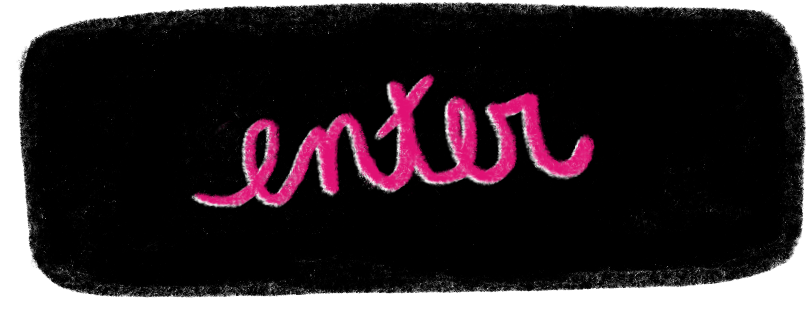
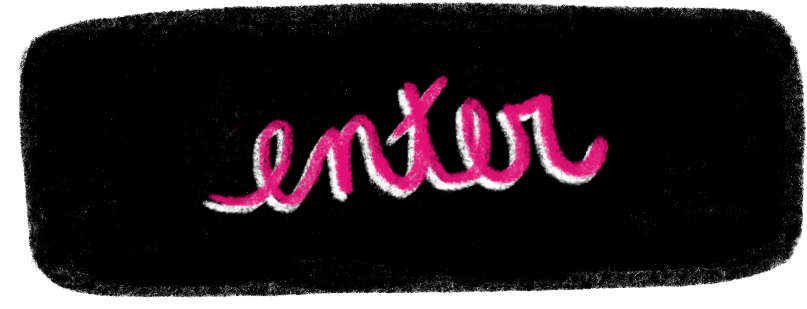
button hover logic, also clears up some sandbox code

Changed region(s): [[0.2169, 0.233, 0.7745, 0.699]]

diff --git a/scripts/functions.js b/scripts/functions.js
@@ -1,20 +1,32 @@
-// javascript for hotel california
+//functions used across site
+$(document).ready(function(){
 
+  //figures out what time it is for the comic pages
+  let time = parseInt(sessionStorage.getItem('time'));
+  console.log(time);
+  $('body').css("backgroundImage", 'url(assets/hotel'+time+'.jpg');
+
+  $('.button  img').hover(
+    function(){ this.src = 'assets/'+this.id+'x.png'; },
+    function(){ this.src = 'assets/'+this.id+'.png' }
+  )
+
+  $('.available').hover(
+    function(){
+      console.log($(this).find(':nth-child(1)'));
+      $(':nth-child(1)', this).css('backgroundColor', '#34A582');
+    },
+    function(){
+      $(':nth-child(1)', this).css('backgroundColor', '#DF287F')
+    }
+  )
+
+})
+
+//sets tile to visited when it's clicked
 function tileState(x) {
   sessionStorage.setItem(x, "visited");
 }
-
-
-
-
-
-
-
-
-
-
-
-
 
 
 
@@ -38,22 +50,22 @@ function tileState(x) {
   // display appropriate background image
 // reset sessions storage when user clicks final "home" link
 
-//STORY PROGRESSION
-function bgIncrement(){
-
-  if (sessionStorage.getItem("bgState")) {
-    let currentBg = parseInt((sessionStorage.getItem("bgState")), 10);
-    currentBg += 1;
-    sessionStorage.setItem("bgState", currentBg);
-    console.log(sessionStorage.getItem("bgState"));
-  } else {
-    let currentBg =  1;
-    sessionStorage.setItem("bgState", currentBg);
-    console.log(sessionStorage.getItem("bgState"));
-  }
-  // sessionStorage.setItem("bgState", currentBg+1);
-  // console.console.log(sessionStorage.getItem("bgState"));
-}
+// //STORY PROGRESSION
+// function bgIncrement(){
+//
+//   if (sessionStorage.getItem("bgState")) {
+//     let currentBg = parseInt((sessionStorage.getItem("bgState")), 10);
+//     currentBg += 1;
+//     sessionStorage.setItem("bgState", currentBg);
+//     console.log(sessionStorage.getItem("bgState"));
+//   } else {
+//     let currentBg =  1;
+//     sessionStorage.setItem("bgState", currentBg);
+//     console.log(sessionStorage.getItem("bgState"));
+//   }
+//   // sessionStorage.setItem("bgState", currentBg+1);
+//   // console.console.log(sessionStorage.getItem("bgState"));
+// }
 
 
 //TEMPLATED BLINKING
@@ -79,6 +91,7 @@ function doABlink(blinker) {
   }, 900);
 }
 
+//blinking stuff
 function lightIt(blinker, lit) {
   blinker.src = lit;
 }
@@ -86,6 +99,7 @@ function lightIt(blinker, lit) {
 function darkIt(blinker, unlit) {
   blinker.src = unlit;
 }
+
 
 function peterOut(peter) {
   let lit = 'assets/'+ peter.id+'.png';

diff --git a/scripts/index.js b/scripts/index.js
@@ -1,33 +1,51 @@
 // script for Hotel California landing page
 
 $(document).ready(function(){
-
+  // STORAGE
   sessionStorage.setItem("locat", "available");
   sessionStorage.setItem("pool", "unavailable");
   sessionStorage.setItem("bar", "unavailable");
   sessionStorage.setItem("ballroom", "unavailable");
   sessionStorage.setItem("rooms", "unavailable");
-  sessionStorage.setItem("time", "0");
+  sessionStorage.setItem("time", "1");
+
+  //LOOKING SICK
+  //soft flicker on
 
 
-  console.log(sessionStorage.getItem('locat'));
+  //button blink -- actually not going to do this, it would look cool but it not part of MVP
+  //https://stackoverflow.com/questions/18433429/setinterval-change-image
+  //this is not the most elegant solution, but it's the only place I'm using it so whatever
+  /*var i = 0;
+  var pics = ['assets/enter.png', 'assets/enterx.png'];
+  var el = document.getElementById('enter');  // el doesn't change
+  function toggle() {
+    el.src = pics[i];           // set the image
+    i = (i + 1) % pics.length;  // update the counter
+  }*/
+  //setInterval(toggle, 1000);
 
 
 
 
-  // copy that variable to local storage
-  setTimeout(function() {
-    doABlink(document.getElementById('index1'));
-    // console.log('yea i am a blinker')
-  }, 2700)
 
-  setTimeout(function() {
-    doABlink(document.getElementById('index2'));
-    // console.log('yea i am a blinker')
-  }, 2300)
 
-  //pulse(document.getElementById('enter'));
+
+
+
+
+
+
+
+  // setTimeout(function() {
+  //   doABlink(document.getElementById('index1'));
+  //   // console.log('yea i am a blinker')
+  // }, 2700)
+  //
+  // setTimeout(function() {
+  //   doABlink(document.getElementById('index2'));
+  //   // console.log('yea i am a blinker')
+  // }, 2300)
+
 
 })
-
-// functions

diff --git a/end.html b/end.html
@@ -6,7 +6,7 @@
     <link rel="stylesheet" href="styles.css">
     <title>Hotel California</title>
   </head>
-  <body id="theBod" class="body5">
+  <body id="theBod">
     <div class="flexy page">
       <div class="neonSign">
         <img src="assets/index1.png" alt="hotel" id='index1' onmouseover="peterOut(this)">
@@ -20,8 +20,8 @@
         <p class="small">"Hotel California" was written and illustrated by Joyce Rice, with apologies to the Eagles.</p>
         <p class="small">To support more digital comics, consider <a href="http://ko-fi.com/joycer" target="_blank">kicking ya girl a cup o' joe</a>.</p>
       </div>
-      <a href="index.html" class="button pink">
-        <img src="assets/readagain.png" alt="read again">
+      <a href="index.html" class="button">
+        <img src="assets/readagain.png" id='readagain' alt="read again">
       </a>
     </div>
     <footer>
@@ -47,6 +47,7 @@
       integrity="sha256-3edrmyuQ0w65f8gfBsqowzjJe2iM6n0nKciPUp8y+7E="
       crossorigin="anonymous">
     </script>
-    <script src="scripts/pages.js" charset="utf-8"></script>
+    <script src="scripts/functions.js" charset="utf-8"></script>
+
   </body>
 </html>

diff --git a/styles.css b/styles.css
@@ -34,10 +34,6 @@ body {
   background-image: url(assets/hotel1.jpg);
 }
 
-.body5 {
-  background-image: url(assets/hotel5.jpg);
-}
-
 /* this makes the footer stick to the bottom */
 .page {
   flex: 1 0 auto; /* Prevent Chrome, Opera, and Safari from letting these items shrink to smaller than their content's default minimum size. */
@@ -222,14 +218,6 @@ header img {
   display: block;
   margin: 3em auto;
 }
-
-/* not important, and hanging me up
-.neonSign :first-child {
-}
-
-.neonSign :last-child {
-  float: right;
-} */
 
 footer {
   flex-shrink: 0; /* Prevent Chrome, Opera, and Safari from letting these items shrink to smaller than their content's default minimum size. */

diff --git a/scripts/site.js b/scripts/site.js
@@ -1,10 +1,10 @@
-// opening scripts for most pages
+// scripts for site.html
 
 $(document).ready(function(){
 
+  // manages tile style based on story state
   let story = [];
 
-  // gets session storage values
   updateStory();
 
   if (story[0].value == 'visited' && story[1].value == 'unavailable') {
@@ -25,6 +25,7 @@ $(document).ready(function(){
     e.preventDefault();
   });
 
+  // functions
   function updateCSS(){
     let time = 1;
     for (x in story) {

diff --git a/bar.html b/bar.html
@@ -16,8 +16,8 @@
         <img src="assets/bar2.jpg" alt="comic page 2">
         <img src="assets/bar3.jpg" alt="comic page 3">
         <img src="assets/bar4.jpg" alt="comic page 4">
-        <a href="site.html" class="button" onclick="bgIncrement()">
-          <img src="assets/back.png" alt="go back">
+        <a href="site.html" class="button">
+          <img src="assets/back.png" id='back' alt="go back">
         </a>
       </div>
     </div>

diff --git a/location.html b/location.html
@@ -17,8 +17,7 @@
         <img src="assets/location3.jpg" alt="comic page 3">
         <img src="assets/location4.jpg" alt="comic page 4">
         <a href="site.html" class="button" onclick="bgIncrement()">
-          <img src="assets/back.png" alt="go back">
-          <img src="assets/backx.png" alt="go back" style="display: none">
+          <img src="assets/back.png" id='back' alt="go back">
         </a>
       </div>
     </div>

diff --git a/index.html b/index.html
@@ -12,8 +12,7 @@
         <img src="assets/index1.png" alt="hotel" id='index1'>
         <img src="assets/index2.png" alt="california" id='index2'>
       </div>
-      <!-- <button onClick='bgIncrement()'>Clicker</button> -->
-      <a href="site.html" class="button pink">
+      <a href="site.html" class="button">
         <img src="assets/enter.png" alt="enter" id='enter'>
       </a>
     </div>

diff --git a/ballroom.html b/ballroom.html
@@ -17,7 +17,7 @@
         <img src="assets/ballroom3.jpg" alt="comic page 3">
         <img src="assets/ballroom4.jpg" alt="comic page 4">
         <a href="site.html" class="button" onclick="bgIncrement()">
-          <img src="assets/back.png" alt="go back">
+          <img src="assets/back.png" id='back' alt="go back">
         </a>
       </div>
     </div>

diff --git a/pool.html b/pool.html
@@ -17,7 +17,7 @@
         <img src="assets/pool3.jpg" alt="comic page 3">
         <img src="assets/pool4.jpg" alt="comic page 4">
         <a href="site.html" class="button" onclick="bgIncrement()">
-          <img src="assets/back.png" alt="go back">
+          <img src="assets/back.png" id='back' alt="go back">
         </a>
       </div>
     </div>

diff --git a/rooms.html b/rooms.html
@@ -18,7 +18,7 @@
         <img src="assets/rooms4.jpg" alt="comic page 4">
         <img src="assets/rooms5.jpg" alt="comic page 5">
         <a href="end.html" class="button">
-          yea that's it man
+          <img src="assets/back.png" id='back' alt="go back">
         </a>
       </div>
     </div>

diff --git a/scripts/pages.js b/scripts/pages.js
@@ -1,8 +1,5 @@
 $(document).ready(function(){
 
-  console.log(sessionStorage.getItem('pool'));
-  let time = parseInt(sessionStorage.getItem('time'));
-  console.log(time);
-  $('body').css("backgroundImage", 'url(assets/hotel'+time+'.jpg');
+  
 
 })
